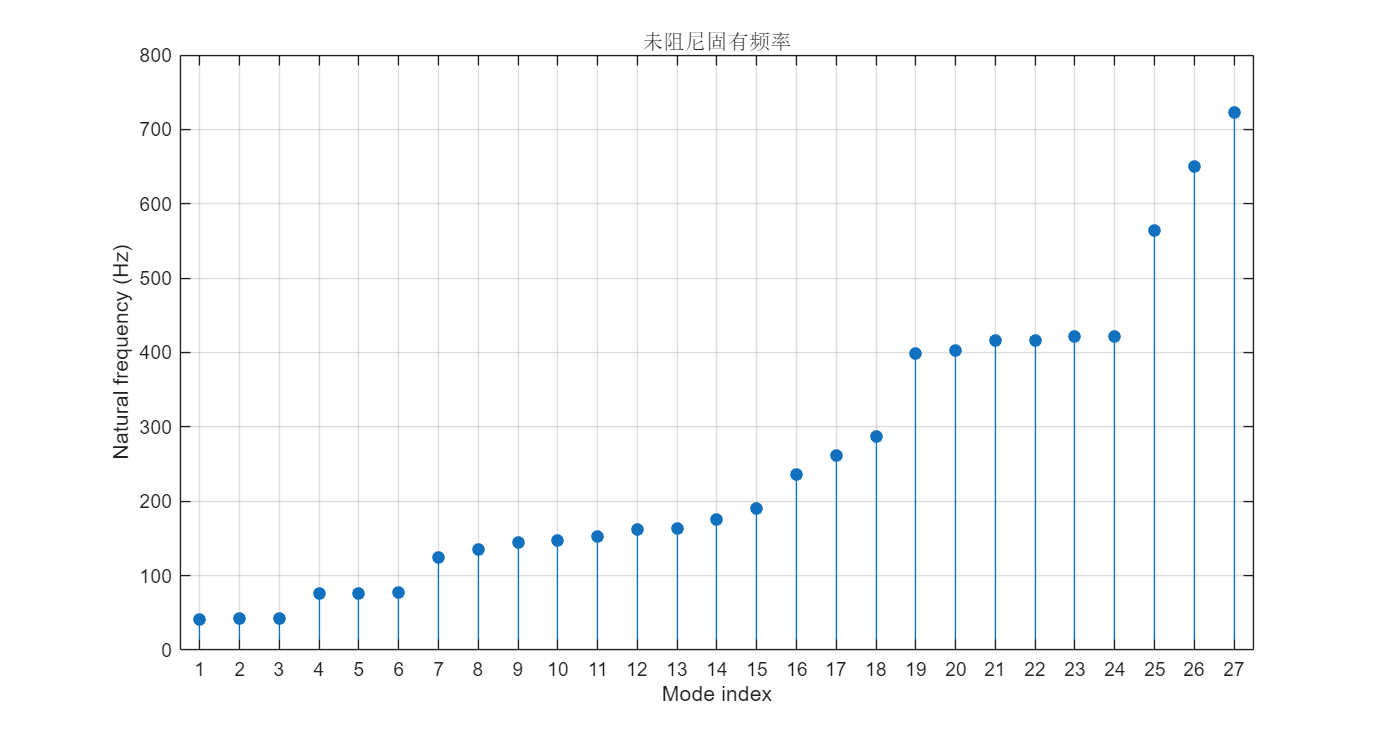
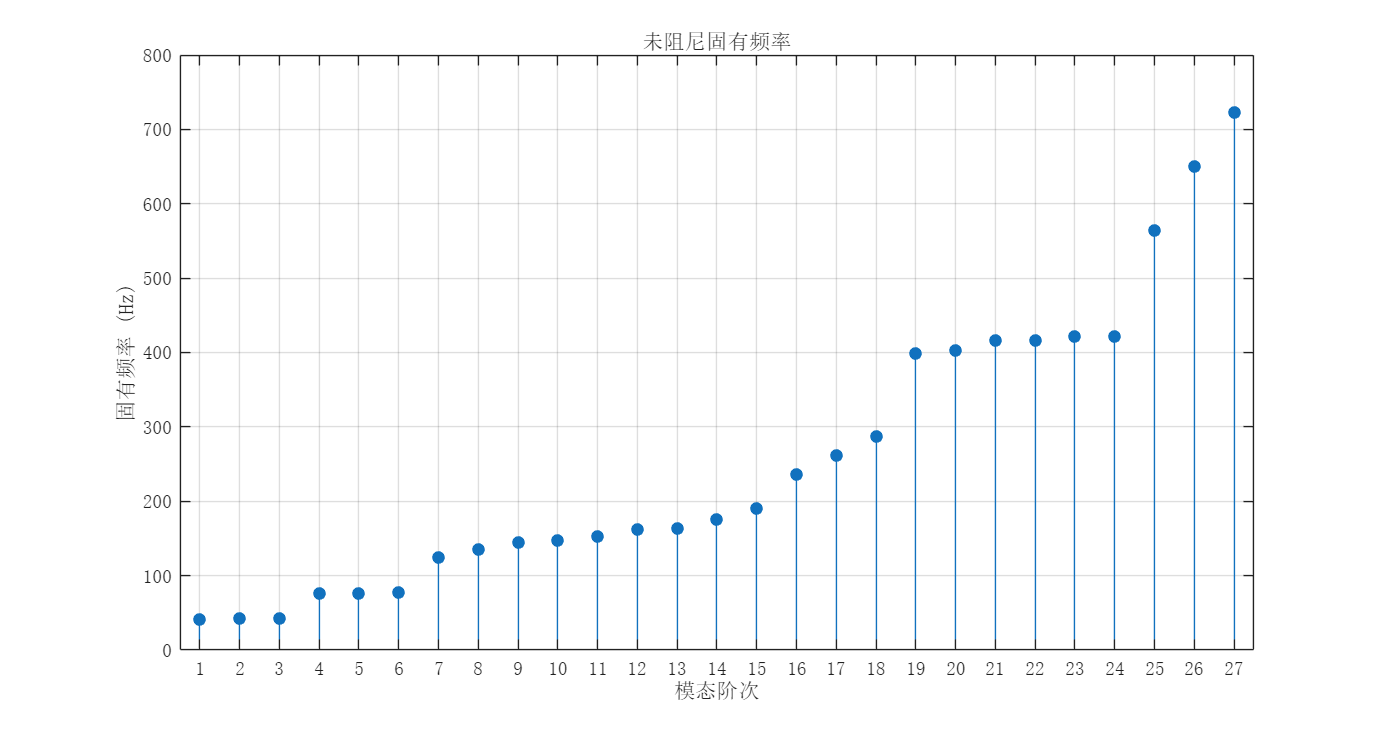
Export Chinese and English MATLAB result plots

diff --git a/wheel_lathe_lumped_demo.m b/wheel_lathe_lumped_demo.m
@@ -162,19 +162,20 @@ writetable(table((1:nd)',fn,'VariableNames',{'mode','frequency_Hz'}), ...
 
 short = t >= p.discard & t <= p.discard+0.25;
 directionTitles = {'径向','轴向','切向'};
-titleStyle = {'FontName','宋体','FontWeight','normal'};
 fig = figure('Name','刀尖加速度','NumberTitle','off', ...
     'Visible','off','Color','w','Position',[50 50 1100 850]);
 for j = 1:3
     subplot(3,2,2*j-1);
     plot(t(short),tipA(j,short),'LineWidth',0.7); grid on;
-    xlabel('Time (s)'); ylabel('Acceleration (m/s^2)');
-    title([directionTitles{j} '刀尖加速度时程'],titleStyle{:});
+    setappdata(gca,'PlotLabels', ...
+        {[directionTitles{j} '刀尖加速度时程'], '时间 (s)', '加速度 (m/s^2)'; ...
+         [axesNames{j} ' tool-tip acceleration'], 'Time (s)', 'Acceleration (m/s^2)'});
     subplot(3,2,2*j);
     plot(freqFFT,ampFFT(j,:),'LineWidth',0.7); grid on;
-    xlim([0 p.plotMaxHz]); xlabel('Frequency (Hz)');
-    ylabel('Single-sided amplitude (m/s^2)');
-    title([directionTitles{j} '刀尖加速度幅度谱'],titleStyle{:});
+    xlim([0 p.plotMaxHz]);
+    setappdata(gca,'PlotLabels', ...
+        {[directionTitles{j} '刀尖加速度幅度谱'], '频率 (Hz)', '单边幅值 (m/s^2)'; ...
+         [axesNames{j} ' acceleration spectrum'], 'Frequency (Hz)', 'Single-sided amplitude (m/s^2)'});
 end
 save_result_figure(fig,outdir,'acceleration.png',p.showFigures);
 
@@ -183,8 +184,9 @@ fig = figure('Name','单位力加速度频响','NumberTitle','off', ...
 for j = 1:3
     subplot(3,1,j);
     semilogy(freq,max(squeeze(abs(Htip(j,j,:))),1e-16)); grid on;
-    xlabel('Frequency (Hz)'); ylabel('(m/s^2)/N');
-    title([directionTitles{j} '单位力加速度频响'],titleStyle{:});
+    setappdata(gca,'PlotLabels', ...
+        {[directionTitles{j} '单位力加速度频响'], '频率 (Hz)', '加速度频响幅值 ((m/s^2)/N)'; ...
+         [axesNames{j} ' unit-force accelerance'], 'Frequency (Hz)', 'Accelerance magnitude ((m/s^2)/N)'});
 end
 save_result_figure(fig,outdir,'unit_force_frf.png',p.showFigures);
 
@@ -195,8 +197,9 @@ fig = figure('Name','三向切削力','NumberTitle','off', ...
 for j = 1:3
     subplot(3,1,j);
     plot(t(forceWindow),force(j,forceWindow),'LineWidth',0.7); grid on;
-    xlabel('Time (s)'); ylabel('Force (N)');
-    title([directionTitles{j} '切削力时程'],titleStyle{:});
+    setappdata(gca,'PlotLabels', ...
+        {[directionTitles{j} '切削力时程'], '时间 (s)', '切削力 (N)'; ...
+         [axesNames{j} ' cutting force'], 'Time (s)', 'Cutting force (N)'});
 end
 save_result_figure(fig,outdir,'cutting_force.png',p.showFigures);
 
@@ -205,15 +208,18 @@ fig = figure('Name','刀具与轮对响应','NumberTitle','off', ...
 for j = 1:3
     subplot(3,2,2*j-1);
     plot(t(short),tipA(j,short),t(short),holderA(j,short),'LineWidth',0.7); grid on;
-    xlabel('Time (s)'); ylabel('Acceleration (m/s^2)');
-    title([directionTitles{j} '刀尖与刀杆加速度对比'],titleStyle{:});
+    setappdata(gca,'PlotLabels', ...
+        {[directionTitles{j} '刀尖与刀杆加速度对比'], '时间 (s)', '加速度 (m/s^2)'; ...
+         [axesNames{j} ' tool-tip and holder acceleration'], 'Time (s)', 'Acceleration (m/s^2)'});
     if j == 1
-        legend('Tool tip','Tool holder','Location','best');
+        lg = legend('刀尖','刀杆','Location','best');
+        setappdata(lg,'PlotLabels',{'刀尖','刀杆'; 'Tool tip','Tool holder'});
     end
     subplot(3,2,2*j);
     plot(t(short),1e6*relativeU(j,short),'LineWidth',0.7); grid on;
-    xlabel('Time (s)'); ylabel('Relative displacement ({\mu}m)');
-    title([directionTitles{j} '刀尖相对轮对的位移'],titleStyle{:});
+    setappdata(gca,'PlotLabels', ...
+        {[directionTitles{j} '刀尖相对轮对的位移'], '时间 (s)', '相对位移 ({\mu}m)'; ...
+         [axesNames{j} ' displacement: tip minus wheelset'], 'Time (s)', 'Relative displacement ({\mu}m)'});
 end
 save_result_figure(fig,outdir,'tool_response.png',p.showFigures);
 
@@ -221,18 +227,37 @@ fig = figure('Name','未阻尼固有频率','NumberTitle','off', ...
     'Visible','off','Color','w','Position',[50 50 950 500]);
 stem(1:nd,fn,'filled'); grid on;
 xlim([0.5 nd+0.5]); xticks(1:nd);
-xlabel('Mode index'); ylabel('Natural frequency (Hz)');
-title('未阻尼固有频率',titleStyle{:});
+setappdata(gca,'PlotLabels', ...
+    {'未阻尼固有频率', '模态阶次', '固有频率 (Hz)'; ...
+     'Undamped natural frequencies', 'Mode index', 'Natural frequency (Hz)'});
 save_result_figure(fig,outdir,'natural_frequencies.png',p.showFigures);
 fprintf('Saved illustrative results to: %s\n',outdir);
 end
 
 function save_result_figure(fig,outdir,filename,showFigures)
+% Reuse the same plotted data. Leave desktop figures in Chinese.
+[~,stemName,ext] = fileparts(filename);
+apply_plot_language(fig,2,'Times New Roman');
+print(fig,fullfile(outdir,[stemName '_en' ext]),'-dpng','-r140');
+apply_plot_language(fig,1,'宋体');
 print(fig,fullfile(outdir,filename),'-dpng','-r140');
 if showFigures
     set(fig,'Visible','on');
 else
     close(fig);
+end
+end
+
+function apply_plot_language(fig,language,fontName)
+for ax = reshape(findall(fig,'Type','axes'),1,[])
+    labels = getappdata(ax,'PlotLabels');
+    ax.FontName = fontName;
+    set([ax.Title; ax.XLabel; ax.YLabel],{'String'},labels(language,:).', ...
+        'FontName',fontName,'FontWeight','normal');
+end
+for lg = reshape(findall(fig,'Type','legend'),1,[])
+    labels = getappdata(lg,'PlotLabels');
+    set(lg,'String',labels(language,:),'FontName',fontName);
 end
 end
 

diff --git a/MATLAB_使用说明.md b/MATLAB_使用说明.md
@@ -75,6 +75,8 @@ result = wheel_lathe_lumped_demo('my_result', p);
 - tool_response.png：同一时间窗口内的三向刀尖与刀杆加速度对比，以及刀尖减去轮对的相对位移（μm，保留静态偏移）。默认展示丢弃初始段后的 0.25 秒。
 - natural_frequencies.png：按频率排序的 27 阶未阻尼固有频率。
 
+每张图同时导出中文宋体和英文 Times New Roman 两版。上述文件名对应中文版，英文版在 `.png` 前加 `_en`（例如 `tool_response_en.png`）。MATLAB 桌面显示中文版。
+
 result.holderAcceleration 是刀杆等效质量点的加速度，可用于比较刀杆传感器测点；它与 result.tipAcceleration 不同。实际传感器方向、安装位置、传感器及安装件质量应在标定时考虑。
 
 三向力联合输入时，在同一频率下应进行复数响应相加后再取模，不能直接相加各幅值。
